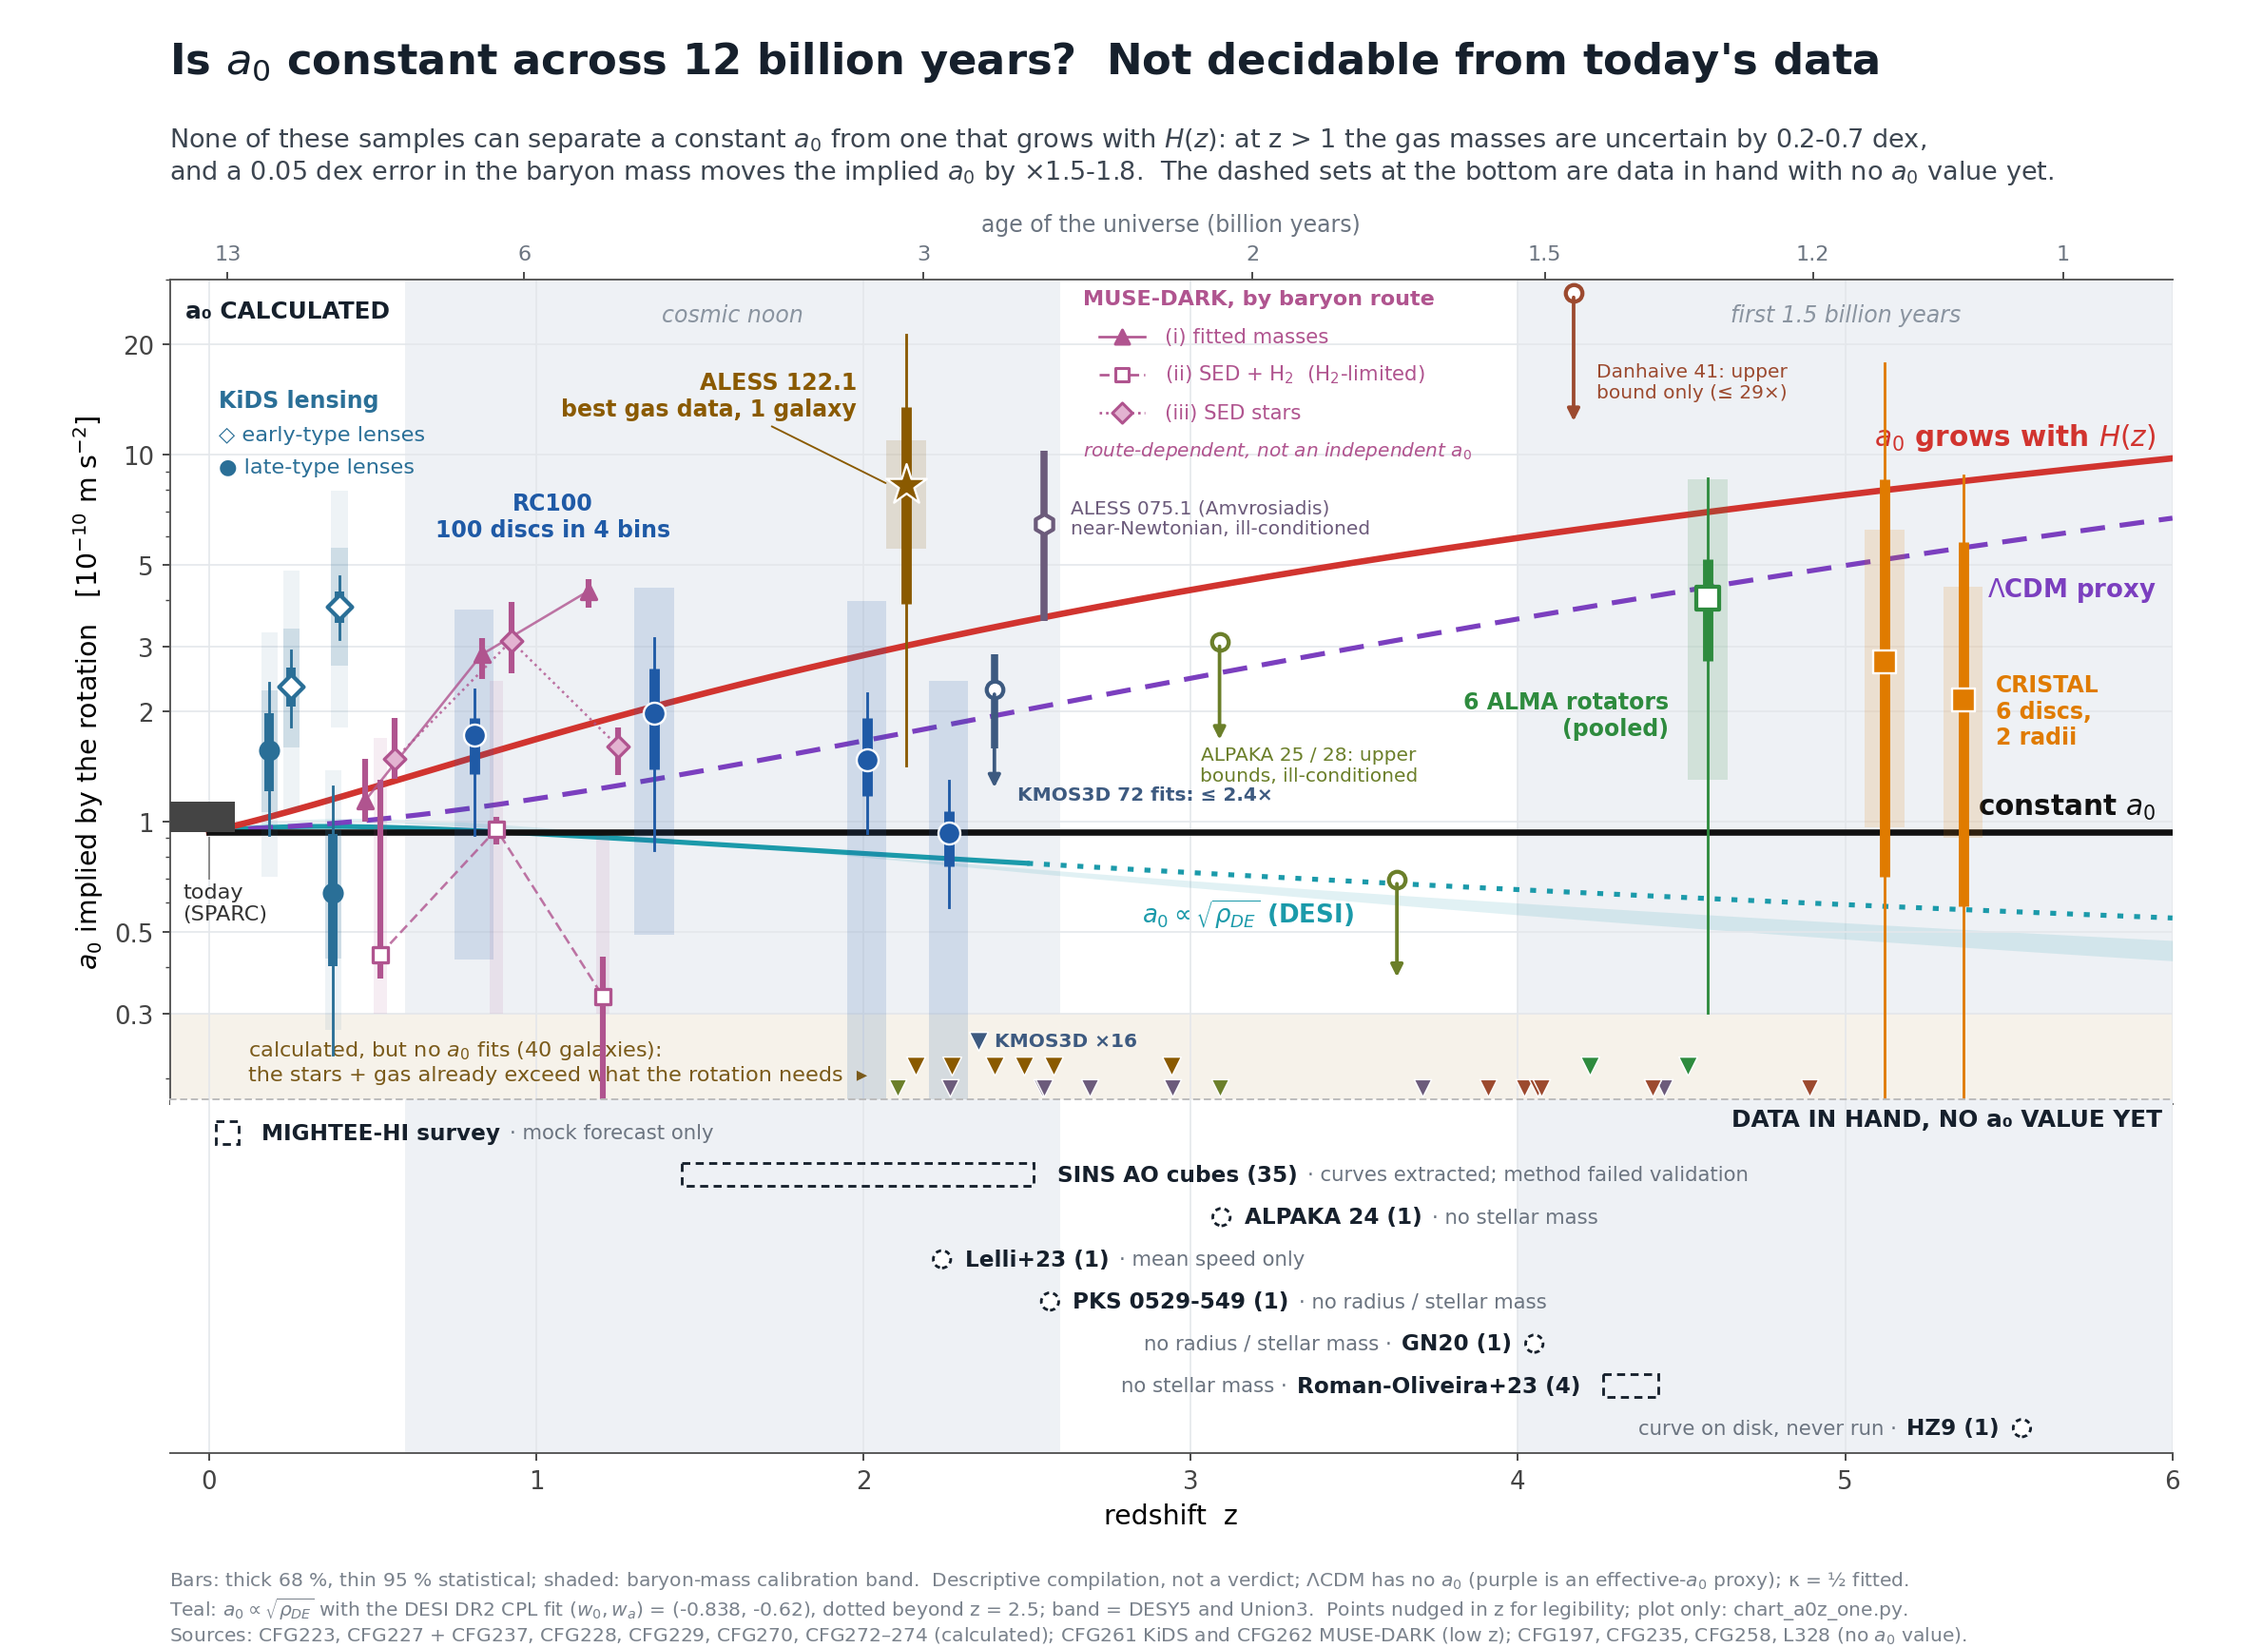
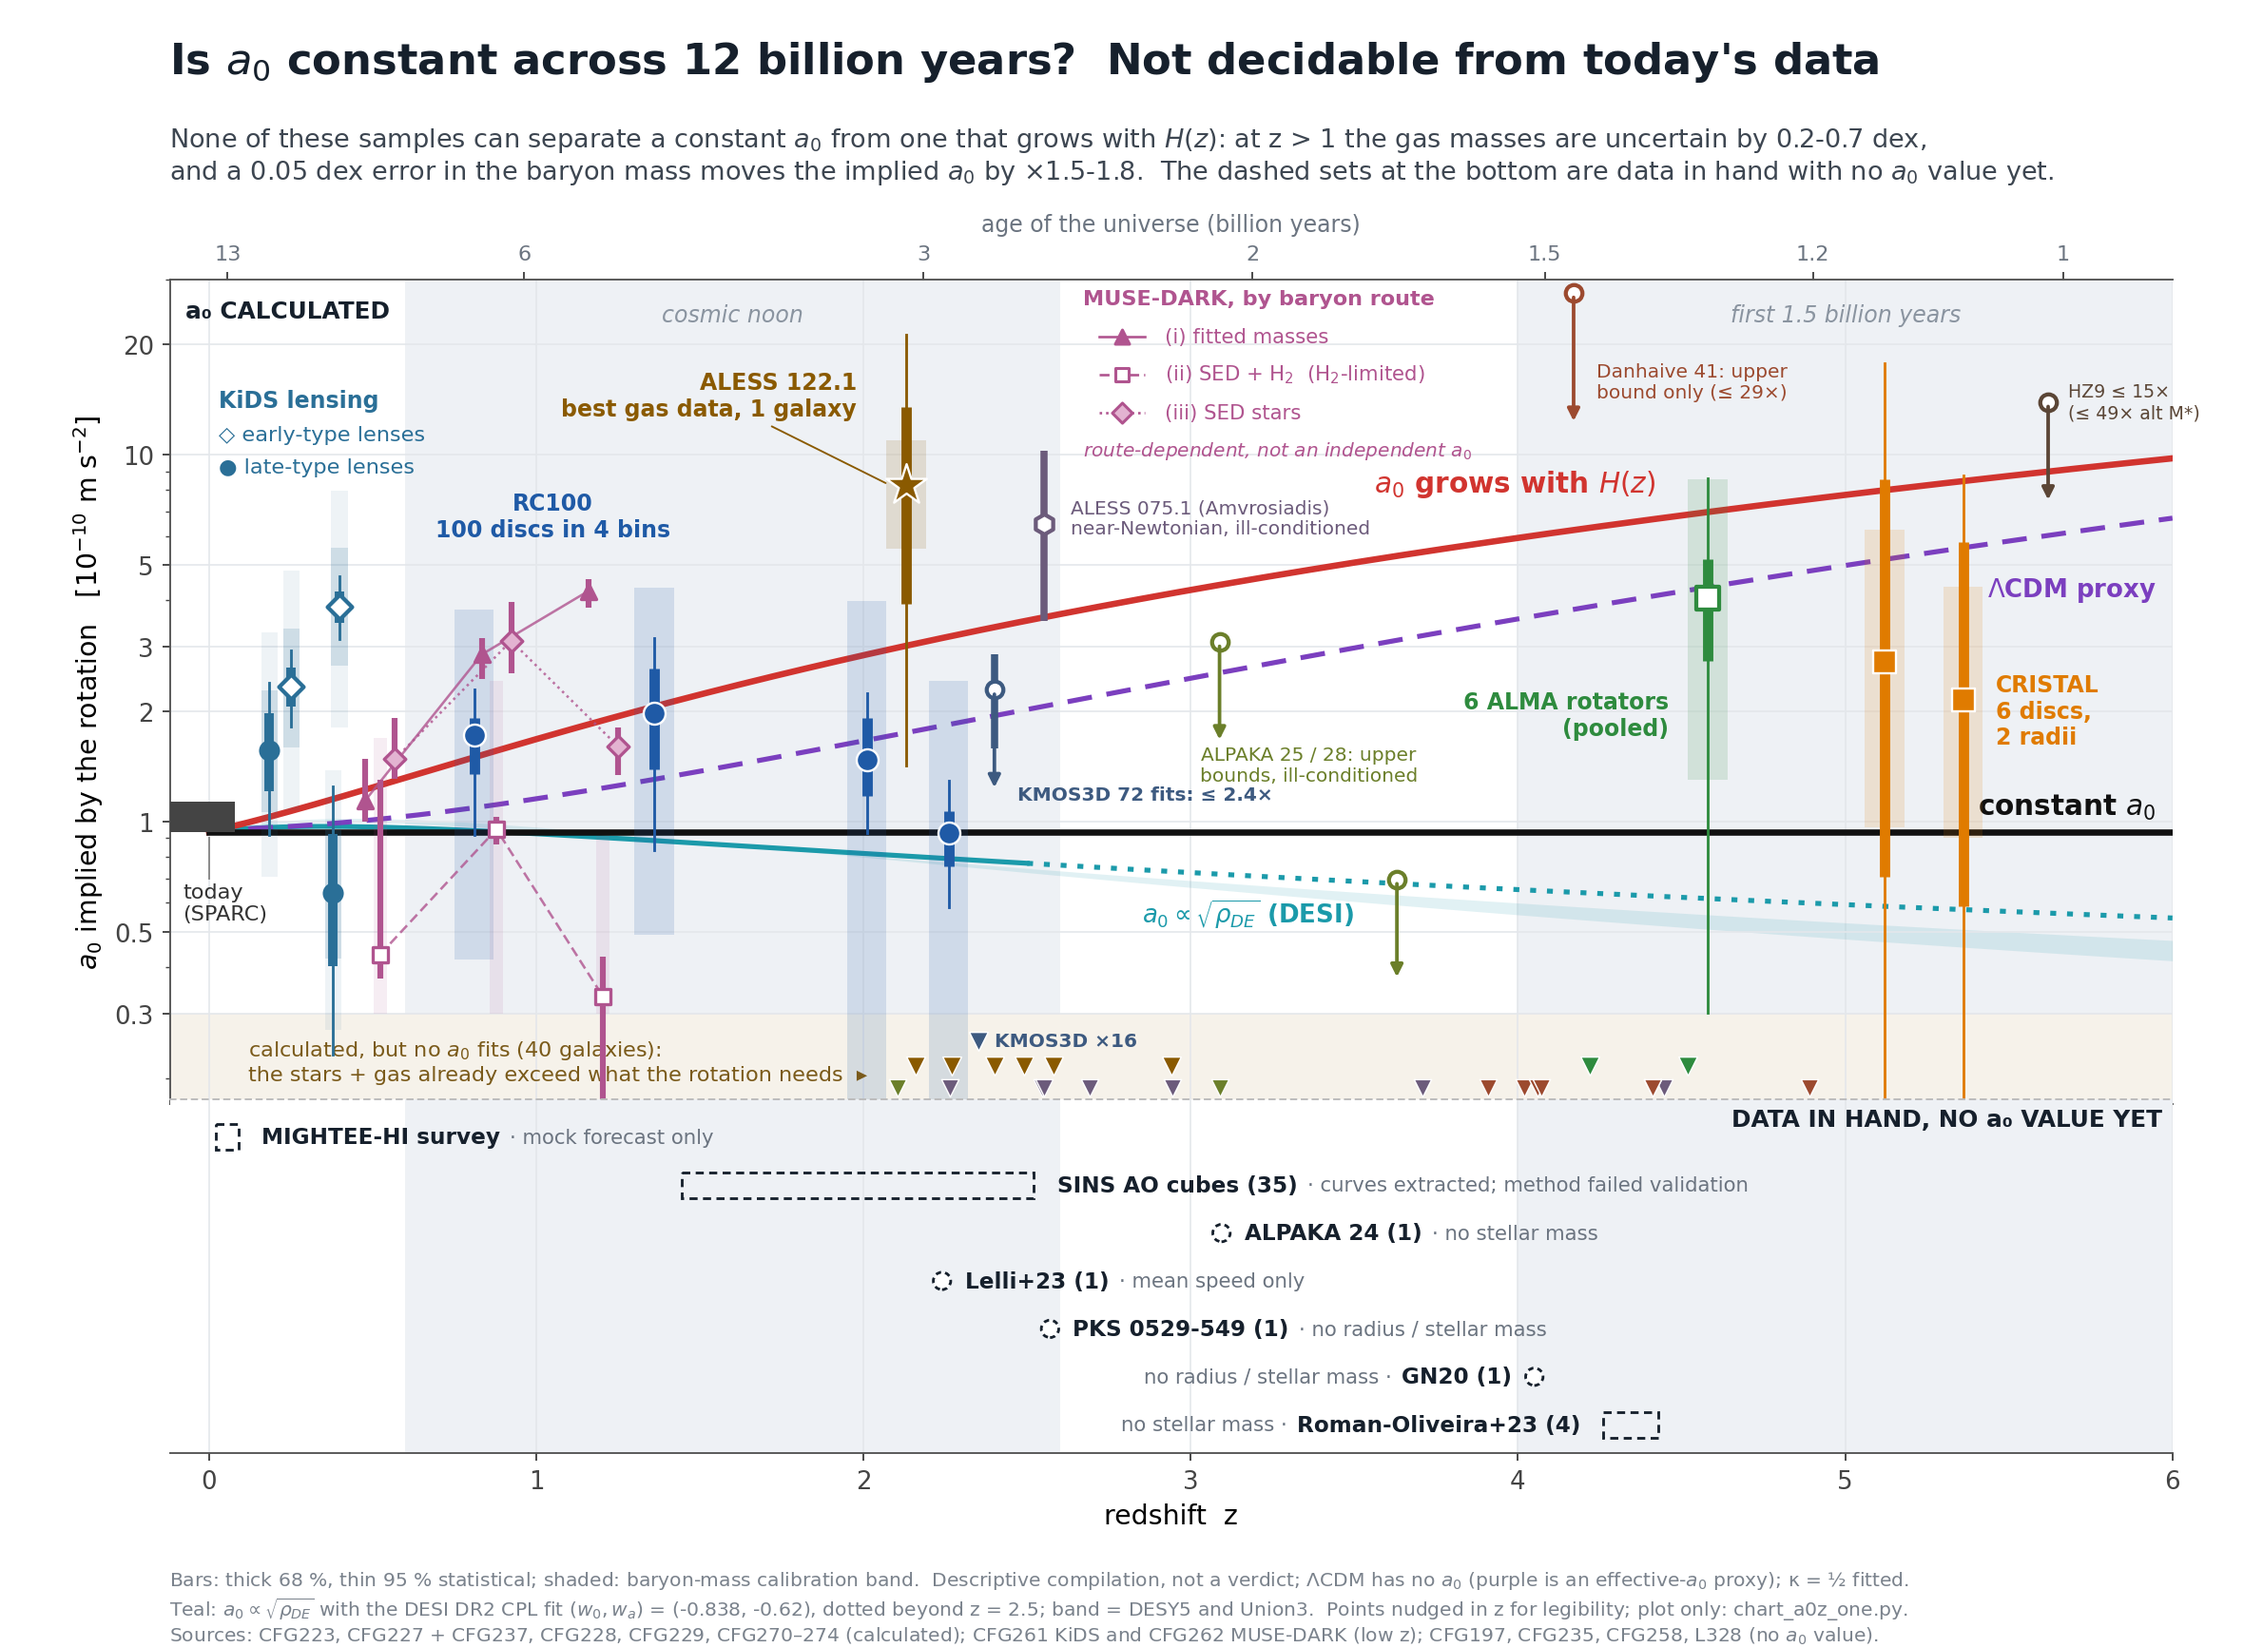
CHART one-chart: HZ9 from CFG271 (a18b17d72) -- outer-ring stars-only upper bound, corpus-M* branch <= 15 drawn, the Parlanti branch (<= 49) named in the label (off scale); both vacuous; strip row removed; 15/15 checks; plot only

diff --git a/campaign_fresh_gravity/CHART_a0z_rar_z0_5_2026-10-01/chart_a0z_one.py b/campaign_fresh_gravity/CHART_a0z_rar_z0_5_2026-10-01/chart_a0z_one.py
@@ -46,6 +46,7 @@ sins = [float(r["z"]) for r in csv.DictReader(open(os.path.join(DA, "sins_cubes"
 k3d = [float(r["Z"]) for r in csv.DictReader(open(os.path.join(DA, "kmos3d_cubes", "k3d_fits_main_final_flags.csv")))]
 A272 = [r for r in csv.DictReader(open(os.path.join(CFG, "CFG272_alpaka_five_discs", "cfg272_points_stageB.csv"))) if "pooled" not in r["object"] and r["s_star"] != "nan"]   # CFG272 d993f02dc
 A270 = list(csv.DictReader(open(os.path.join(CFG, "CFG270_kmos3d_cube_fits", "cfg270_points_stageB.csv"))))   # CFG270 b2e86a913
+A271 = {r["object"]: r for r in csv.DictReader(open(os.path.join(CFG, "CFG271_hz9_three_rings", "cfg271_points_stageB.csv")))}   # CFG271 a18b17d72
 A273 = list(csv.DictReader(open(os.path.join(CFG, "CFG273_danhaive_gold41", "cfg273_points_stageB_relabelled.csv"))))   # CFG273 208944196 (relabelled: two ceiling rows)
 A274 = [r for r in csv.DictReader(open(os.path.join(CFG, "CFG274_amvrosiadis_eight_discs", "cfg274_points_stageB.csv"))) if "pooled" not in r["object"]]   # CFG274 255f07244
 TODO = [  # (label, zmin, zmax, short note)       sources: CFG227 'Listed, no point' + CFG237 + CFG258 + L328
@@ -56,7 +57,6 @@ TODO = [  # (label, zmin, zmax, short note)       sources: CFG227 'Listed, no po
     ("PKS 0529-549 (1)", 2.57, 2.57, "no radius / stellar mass"),
     ("GN20 (1)", 4.05, 4.05, "no radius / stellar mass"),
     (f"Roman-Oliveira+23 ({len(ro)})", min(z for _, z in ro), max(z for _, z in ro), "no stellar mass"),
-    ("HZ9 (1)", 5.54, 5.54, "curve on disk, never run"),
 ]
 
 P("chart_a0z_one: plot only")
@@ -65,6 +65,7 @@ check("ALPINE6 plotted a0 equals CFG228 a0_imp", abs(f(pts["ALPINE6 pooled"], "a
 check("Danhaive gold: 41 discs at z 3.80-5.82", len(dan) == 41 and abs(min(dan) - 3.80) < 1e-6 and abs(max(dan) - 5.82) < 1e-6, f"({len(dan)}, {min(dan)}-{max(dan)})")
 check("Roman-Oliveira with kinematics: 4", len(ro) == 4, f"({len(ro)}: {[i for i, _ in ro]})")
 check("CFG270 KMOS3D: pooled PT1 (72 fits) <= 2.44 at z 2.228; 16 T1 fits at the floor (b2e86a913)", any(r["object"] == "KMOS3D pooled PT1" and abs(float(r["s_star"]) - 2.4413) < 1e-3 for r in A270) and sum(r["tier"] == "T1" and r["no_root"] == "1" for r in A270) == 16, f"({sum(r['tier'] == 'T1' and r['no_root'] == '1' for r in A270)} T1 floor)")
+check("CFG271 HZ9: outer-ring stars-only upper bounds 14.85 (corpus M*) and 48.9 (Parlanti M*) (a18b17d72)", abs(float(A271["HZ9 [M103]"]["s_star"]) - 14.847) < 1e-2 and abs(float(A271["HZ9 [M986]"]["s_star"]) - 48.906) < 1e-2)
 check("CFG273 Danhaive: 7 no root (relabelled file), pooled PALL <= 29.4 at z 4.17 (208944196)", sum(r["no_root"] == "1" for r in A273) == 7 and any("PALL" in r["object"] and abs(float(r["s_star"]) - 29.45) < 0.01 for r in A273), f"({sum(r['no_root'] == '1' for r in A273)} no root)")
 check("CFG272 ALPAKA: 13 and 23 no root; 25 <= 3.30 and 28 <= 0.74 upper bounds; 24 no M* (d993f02dc)", sorted(r["object"].split()[1] for r in A272 if r["no_root"] == "1") == ["13", "23"] and sorted(round(float(r["s_star"]), 2) for r in A272 if r["no_root"] == "0") == [0.74, 3.3], f"({len(A272)} rows)")
 check("CFG274 Amvrosiadis: 7 of 8 no root, ALESS 075.1 s* 6.89 (255f07244)", sum(r["no_root"] == "1" for r in A274) == 7 and any(r["no_root"] == "0" and abs(float(r["s_star"]) - 6.887) < 0.01 for r in A274), f"({sum(r['no_root'] == '1' for r in A274)} no root)")
@@ -105,7 +106,7 @@ ax.plot(zz[zz >= 2.5], md[zz >= 2.5], color=LAW["M-DEC"], lw=2.2, ls=(0, (1.2, 2
 ax.text(3.5, 0.53, r"$a_0 \propto \sqrt{\rho_{DE}}$ (DESI)", color=LAW["M-DEC"], fontsize=11, ha="right", fontweight="bold")
 for k, kw in (("PROXY", dict(lw=2.2, ls=(0, (5, 3)))), ("H(z)", dict(lw=2.8)), ("FLAT", dict(lw=2.8))):
     ax.plot(Zc[m], np.array(cur[k])[m] * U, color=LAW[k], zorder=2, **kw)
-ax.text(5.95, 10.6, r"$a_0$ grows with $H(z)$", color=LAW["H(z)"], fontsize=12.5, ha="right", fontweight="bold")
+ax.text(4.42, 7.9, r"$a_0$ grows with $H(z)$", color=LAW["H(z)"], fontsize=12.5, ha="right", fontweight="bold")
 ax.text(5.95, 4.1, r"$\Lambda$CDM proxy", color=LAW["PROXY"], fontsize=11, ha="right", fontweight="bold")
 ax.text(5.95, 1.0, r"constant $a_0$", color=LAW["FLAT"], fontsize=12.5, ha="right", fontweight="bold", va="bottom")
 ax.fill_between([XLO, 0.08], U, ALT / 1e-10, color="#444", zorder=6, lw=0)
@@ -172,6 +173,11 @@ ax.plot([zk, zk], [f(pt1, "stat68_lo") * U, f(pt1, "stat68_hi") * U], color=K3, 
 ax.scatter([zk], [sk], marker="o", s=55, facecolor="white", edgecolor=K3, linewidth=1.8, zorder=6)
 ax.annotate("", xy=(zk, sk / 1.9), xytext=(zk, sk), arrowprops=dict(arrowstyle="-|>", color=K3, lw=1.6), zorder=6)
 ax.text(zk + 0.07, 1.12, "KMOS3D 72 fits: ≤ 2.4×", color=K3, fontsize=8.5, va="bottom", fontweight="bold")
+HZC = "#5b4636"
+hz = A271["HZ9 [M103]"]; zh, shz = 5.62, f(hz, "s_star") * U   # corpus M* branch; the Parlanti branch (<= 49) is off the top of the axis
+ax.scatter([zh], [shz], marker="o", s=55, facecolor="white", edgecolor=HZC, linewidth=1.8, zorder=6)
+ax.annotate("", xy=(zh, shz / 1.9), xytext=(zh, shz), arrowprops=dict(arrowstyle="-|>", color=HZC, lw=1.6), zorder=6)
+ax.text(zh + 0.06, shz, "HZ9 ≤ 15×\n(≤ 49× alt M*)", color=HZC, fontsize=8, va="center", ha="left", clip_on=False)
 N_NR = len(k3_floor) + 8 + sum(r["no_root"] == "1" for r in A274) + sum(r["no_root"] == "1" for r in A272) + sum(r["no_root"] == "1" and "pooled" not in r["object"] for r in A273)
 ax.text(0.12, 0.222, f"calculated, but no $a_0$ fits ({N_NR} galaxies):\nthe stars + gas already exceed what the rotation needs  ▸",
         fontsize=9.5, color="#7a5a1a", va="center")
@@ -253,7 +259,7 @@ fig.text(0.075, 0.905, "None of these samples can separate a constant $a_0$ from
          "and a 0.05 dex error in the baryon mass moves the implied $a_0$ by ×1.5-1.8.  The dashed sets at the bottom are data in hand with no $a_0$ value yet.",
          fontsize=11.5, color="#3d4651", va="center")
 fig.text(0.075, 0.004, "Bars: thick 68 %, thin 95 % statistical; shaded: baryon-mass calibration band.  Descriptive compilation, not a verdict; "
-         "ΛCDM has no $a_0$ (purple is an effective-$a_0$ proxy); κ = ½ fitted.\nTeal: $a_0 \\propto \\sqrt{\\rho_{DE}}$ with the DESI DR2 CPL fit ($w_0, w_a$) = (-0.838, -0.62), dotted beyond z = 2.5; band = DESY5 and Union3.  Points nudged in z for legibility; plot only: chart_a0z_one.py.\nSources: CFG223, CFG227 + CFG237, CFG228, CFG229, CFG270, CFG272–274 (calculated); CFG261 KiDS and CFG262 MUSE-DARK (low z); CFG197, CFG235, CFG258, L328 (no $a_0$ value).",
+         "ΛCDM has no $a_0$ (purple is an effective-$a_0$ proxy); κ = ½ fitted.\nTeal: $a_0 \\propto \\sqrt{\\rho_{DE}}$ with the DESI DR2 CPL fit ($w_0, w_a$) = (-0.838, -0.62), dotted beyond z = 2.5; band = DESY5 and Union3.  Points nudged in z for legibility; plot only: chart_a0z_one.py.\nSources: CFG223, CFG227 + CFG237, CFG228, CFG229, CFG270–274 (calculated); CFG261 KiDS and CFG262 MUSE-DARK (low z); CFG197, CFG235, CFG258, L328 (no $a_0$ value).",
          fontsize=8.6, color="#7a828c")
 fig.savefig(os.path.join(HERE, "chart_a0z_one_2026-10-01.png"), dpi=170)
 P(f"{sum(CHECKS)}/{len(CHECKS)} checks pass; wrote chart_a0z_one_2026-10-01.png")

diff --git a/campaign_fresh_gravity/CHART_a0z_rar_z0_5_2026-10-01/README.md b/campaign_fresh_gravity/CHART_a0z_rar_z0_5_2026-10-01/README.md
@@ -40,3 +40,5 @@ Requested by the owner as a single figure. Top: the calculated implied-a₀ poin
 **Danhaive+25 gold 41 (CFG273, 208944196; the relabelled points file).** The baryons are stars only, a LOWER limit (no gas in the table), so every root is an UPPER bound on s*. Seven discs sit at the Newtonian floor (rust floor triangles: 1088814, 1015956, 1085659, 1082948, 1091153, 1086406, 1009935). Two ceiling rows that the frozen estimator mislabelled as no-root (1094616, 1025101; D = 35 and 57) get no triangle. Only the pooled bound PALL ≤ 29.4 (z 4.17) is drawn, as one downward arrow; the 32 individual bounds are nearly all vacuous. The three below the canonical scale (1079264 ≤ 0.55, 1090526 ≤ 0.64, 1086992 ≤ 0.81) are σ₀-limit rows at face value and are not drawn. The scaling-gas route B2 is class D and is not drawn. Danhaive is removed from the strip. The floor count is now 24. 13/13 checks pass.
 
 **KMOS3D cube fits (CFG270, b2e86a913).** The baryons are stars only, a lower limit (no gas in the catalogue). The 72 headline (T1) fits give a pooled UPPER bound s* ≤ 2.44 (z 2.228; 68 % 1.69–3.06), drawn at z 2.40 (nudged clear of RC100 Q4) as an open circle with a downward arrow. Per the lane, the bound exists only with the hand-added pressure term (rotation-only has no root), and the class-D scaling gas overshoots the dynamics, so no law statement is made. 16 of the 72 T1 fits sit at the Newtonian floor, drawn as one grouped marker labelled "×16" (one of them is also in RC100). RC100 overlap by the frozen name recipe is 18 fits, 14 in T1. The pooled bound shares those galaxies with RC100 Q3/Q4, so the two are not independent. KMOS3D is removed from the strip. The floor count is now 40. 14/14 checks pass.
+
+**HZ9 (CFG271, a18b17d72).** Stars only at the outer ring (2.68 kpc). There is no gas or stellar size on disk, so the result is an UPPER bound, reported in two stellar-mass branches that are never pooled and neither preferred: s* ≤ 14.8 (corpus log M* 10.3) and ≤ 48.9 (Parlanti's 9.86). Both are vacuous: above FLAT 1, PROXY 6.3 and H(z) 9.4 at z 5.54. The corpus branch is drawn at z 5.62 (nudged) with a downward arrow, and the label names the other branch, which is off the top of the axis. All three rings lie inside one beam. The "a₀ grows with H(z)" label moved to z ≈ 4.4 to clear the arrow. HZ9 is removed from the strip. 15/15 checks pass.
